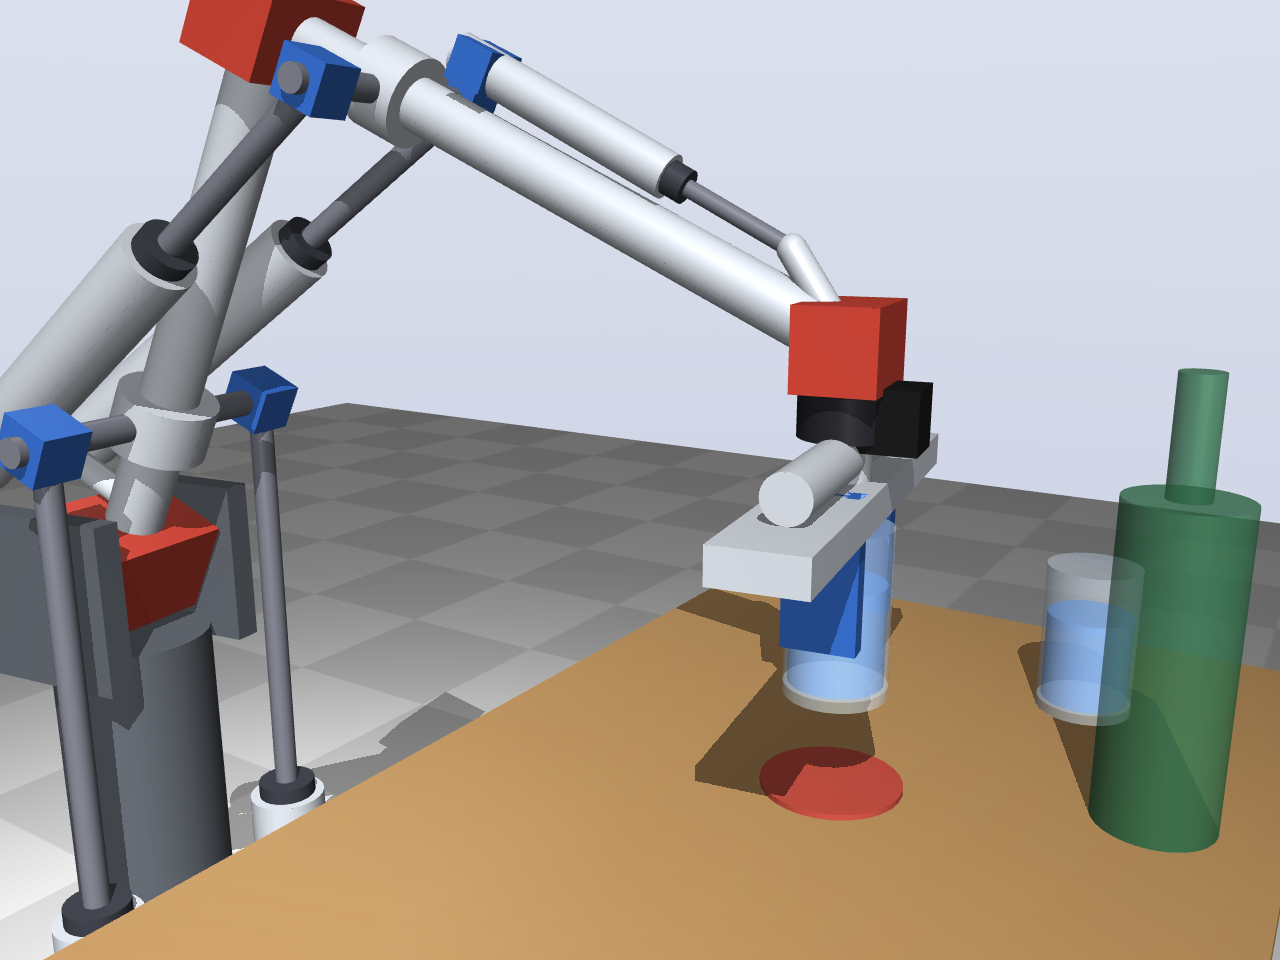
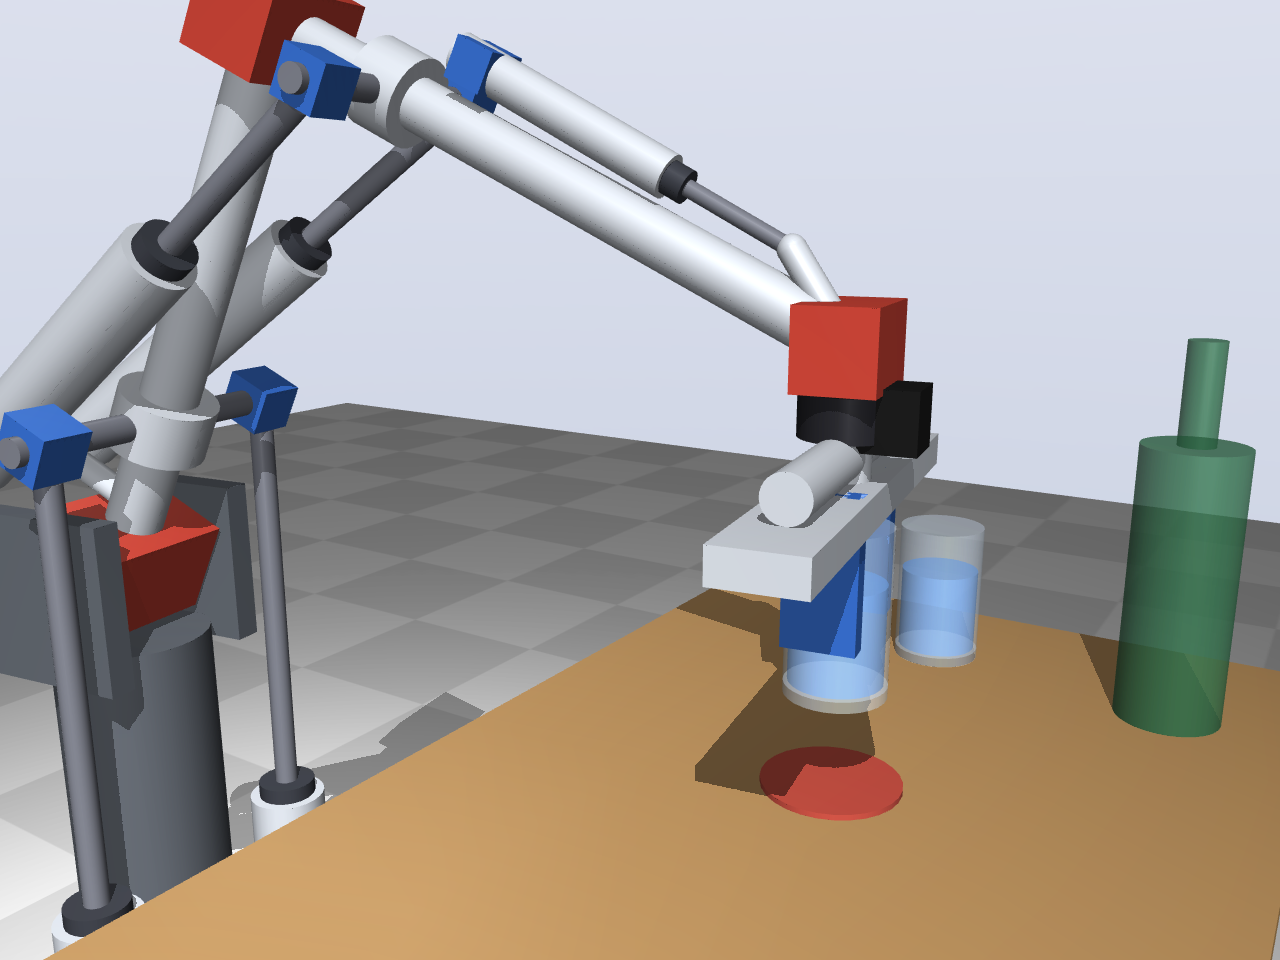
full-arm: impression with the upper arm down — compact Ø50 × 100 elbow cylinders 20 cm from the shoulder, elbow 10–90°; table objects moved

Changed region(s): [[0.6875, 0.3438, 1.0, 0.9062]]

diff --git a/full-arm/concept.py b/full-arm/concept.py
@@ -110,7 +110,7 @@ def build(scene="wall"):
         held_c = np.array([K.WALL_X, y, course * BLOCK[2] + BLOCK[2] / 2 + 0.012])
         tool = GRIP_BAR + 0.012 + BLOCK[2] / 2 + 0.01
     else:
-        held_c = GLASS["at"]
+        held_c = GLASS["at"] + (np.array([0.08, 0.0, 0.0]) if K.DOWN else 0)   # a bit further out: elbow within 90°
         tool = GRIP_BAR + 0.012 + 0.008 + GLASS["h"] / 2
     q, Ru, Rf, Rw, Rt, E, W = solve_flat(held_c, tool, scene == "wall")
     S = K.S
@@ -223,11 +223,12 @@ def table():
             box((t["x"] + sx * (hx - 0.03), t["y"] + sy * (hy - 0.03), (t["top"] - 0.03) / 2), (0.02, 0.02, (t["top"] - 0.03) / 2), WOOD)
     top = t["top"]
     g = GLASS["at"]
-    glass((t["x"] + 0.12, t["y"] + 0.28, top + GLASS["h"] / 2))                           # a second glass
-    bottle = (t["x"] + 0.2, t["y"] + 0.12)
+    glass((t["x"] - 0.02, t["y"] + 0.33, top + GLASS["h"] / 2))                           # a second glass
+    bottle = (t["x"] + 0.18, t["y"] + 0.3)
     rod((*bottle, top), (*bottle, top + 0.22), 0.04, (0.2, 0.45, 0.3, 0.55), "cylinder")
     rod((*bottle, top + 0.22), (*bottle, top + 0.3), 0.014, (0.2, 0.45, 0.3, 0.55), "cylinder")
-    rod((g[0], g[1], top), (g[0], g[1], top + 0.004), 0.05, (0.75, 0.3, 0.25, 1), "cylinder")   # coaster under the held glass
+    gx = g[0] + (0.08 if K.DOWN else 0.0)
+    rod((gx, g[1], top), (gx, g[1], top + 0.004), 0.05, (0.75, 0.3, 0.25, 1), "cylinder")   # coaster under the held glass
 
 
 def camera(name, pos, target):

diff --git a/full-arm/elbow.py b/full-arm/elbow.py
@@ -34,10 +34,10 @@ LAYOUTS = {
     "triceps": dict(low_along=0.02, low_side=0.08, low_up=0.13, hub_along=-0.10, hub_side=0.08),
     # arm turned over, like a human arm: upper arm hanging down, elbow below the shoulder,
     # cylinders behind the upper arm pushing the lever behind the elbow to lift
-    # (compact Ø50 × 160 cylinders: rear pivots 15 cm from the shoulder, 6 cm behind the arm;
-    #  elbow 60–110°, forearm roll ±15°)
-    "triceps_down": dict(low_along=0.15, low_side=0.08, low_up=-0.06, hub_along=-0.12, hub_side=0.08, down=True,
-                         body=0.20),
+    # (impression: compact Ø50 × 100 cylinders, rear pivots 20 cm from the shoulder and 6 cm
+    #  behind the arm, lever 9 cm; elbow 10–90°)
+    "triceps_down": dict(low_along=0.20, low_side=0.08, low_up=-0.06, hub_along=-0.09, hub_side=0.08, down=True,
+                         body=0.15),
 }
 DOWN = False
 LAYOUT = "biceps"

diff --git a/full-arm/README.md b/full-arm/README.md
@@ -135,9 +135,8 @@ the gripper's yaw motor keeps the jaws square to the arm). Shoulder pitch 64°, 
 ![Glass, side](out/render_glass_side.png)
 
 The same with the upper arm hanging down (shoulder at 1.15 m, elbow cylinders behind the
-upper arm, 60 mm from it and 15 cm from the shoulder: compact Ø50 × 160 cylinders, 27–41 cm pin
-to pin, for an elbow range of 60–110° with ±15° forearm roll, pushing the lever behind the
-elbow). Render only; the shoulder cylinders are
+upper arm, 60 mm from it and 20 cm from the shoulder: compact Ø50 × 100 cylinders, 22–30 cm pin
+to pin, pushing a 9 cm lever behind the elbow; elbow range 10–90°). Render only; the shoulder cylinders are
 still drawn in the test 2 layout, which does not suit this posture.
 
 ![Glass, upper arm down](out/render_glass_triceps_down_oblique.png)
